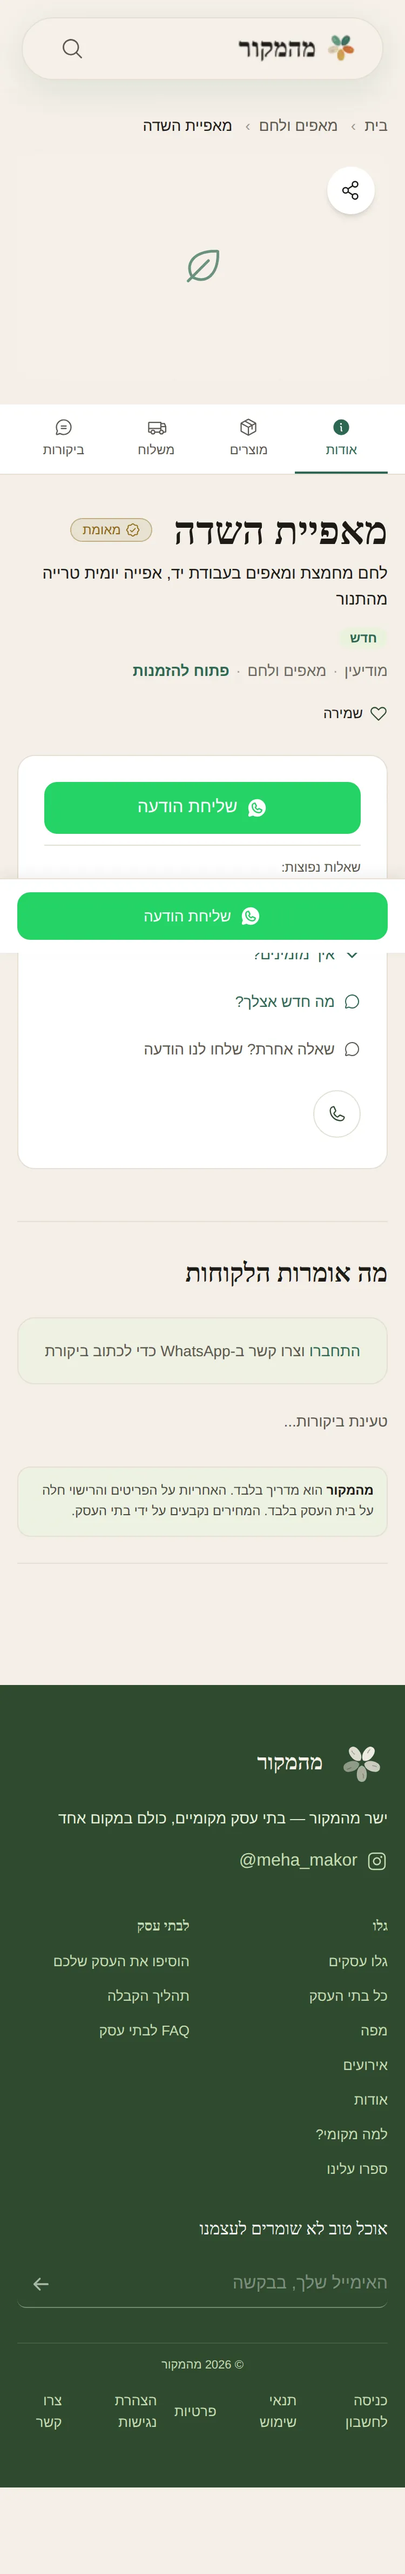
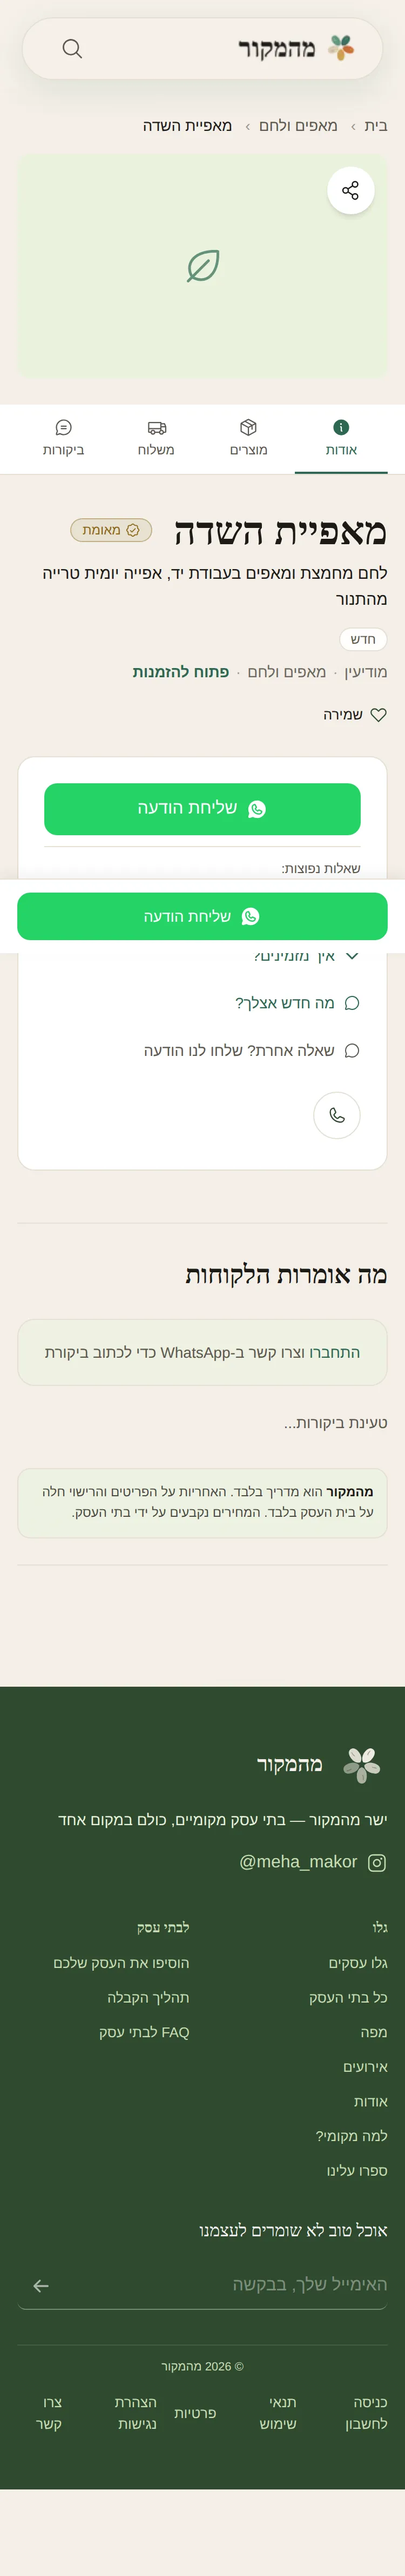
fix(producer-detail): recolor "חדש" pill green->neutral (one-green-per-page)
Review follow-up on MEH-1411: the "חדש" pill used bg-green-50 + text-primary
(the ticket's literal spec), but a new (reviews_count=0) + open producer would
then render the green pill AND the green "פתוח להזמנות" status simultaneously —
two greens, violating MEH-1334's "one green per page — open = primary" (the rule
kept on item c). Recolored to the neutral quiet-chip idiom
(bg-surface-card + border-border + text-fg-muted, ProducerCard.jsx:271) — no
green, no raw hex, no new token. The status stays the page's single green accent.

The pill only renders for reviews_count=0, and the VRT baseline producer has
reviews, so this does not change the producer-detail baseline; the parity.spec
re-touch re-fires vrt-update on this commit so the fresh baseline (from the
item-a hairline change) is generated from the final code. Self-QA new-pill
screenshots regenerated (neutral pill) in qa-artifacts/MEH-1411/.

Refs MEH-1411

Claude-Session: https://claude.ai/code/session_0114JUmY2L4qRAjBMkkLqEku

Changed region(s): [[0.8587, 0.2176, 0.9507, 0.2798], [0.6133, 0.3109, 0.644, 0.342]]

diff --git a/frontend/app/[locale]/producer/[id]/components/ProducerHeader.jsx b/frontend/app/[locale]/producer/[id]/components/ProducerHeader.jsx
@@ -102,12 +102,16 @@ export default function ProducerHeader({
         </a>
       ) : (
         // MEH-1411: "חדש" restyled from a bare 17px bold heading into a small
-        // green-50 pill (bg token + text-primary + rounded-full + compact
-        // padding) so it reads as a quiet badge in the rating's slot, not a
-        // second headline. Smaller than the old 17px line → mobile top block
-        // does not grow. data-testid preserved for the trust-strip test.
+        // NEUTRAL pill (bg-surface-card + border-border + text-fg-muted — the
+        // ProducerHeader/ProducerCard quiet-chip idiom, ProducerCard.jsx:271) so
+        // it reads as a quiet badge in the rating's slot, not a second headline.
+        // Deliberately NOT green: MEH-1334's "one green per page — open = primary"
+        // rule means the "פתוח להזמנות" status is the page's single green accent;
+        // a green pill here would double the green for a new+open producer.
+        // Smaller than the old 17px line → mobile top block does not grow.
+        // data-testid preserved for the trust-strip test.
         <span
-          className="mt-3 inline-block self-start bg-green-50 text-primary rounded-full px-2.5 py-0.5 text-xs font-bold"
+          className="mt-3 inline-block self-start rounded-full bg-surface-card border border-border text-fg-muted px-2.5 py-0.5 text-xs font-medium"
           data-testid="new-mark"
         >
           {t("producer.detail.header.new_mark")}

diff --git a/frontend/e2e/visual/parity.spec.ts b/frontend/e2e/visual/parity.spec.ts
@@ -160,10 +160,14 @@ test.describe("Visual parity — MEH-991", () => {
   // anchor. This touch also re-fires vrt-update to refresh the stale baselines.
   // MEH-1411 (2026-07-21): producer-detail header polish — the orphan "שמירה"
   // actions row lost its full-width hairline and tightened its top margin
-  // (ProducerHeader.jsx), the "חדש" fallback became a green-50 pill, and the
+  // (ProducerHeader.jsx), the "חדש" fallback became a small neutral pill, and the
   // mobile StickyContactBar CTA gained the WhatsApp icon. The producer-detail
   // (mobile especially) baseline shifts by design; this touch re-fires
   // vrt-update.yml so producer-detail-{desktop,mobile}-linux regenerate on-runner.
+  // Review follow-up: the pill was recolored green→neutral (one-green-per-page);
+  // it only renders for reviews_count=0 so it does not change this baseline (the
+  // baseline producer has reviews), but this re-touch re-fires vrt-update on the
+  // neutral-pill commit so the fresh baseline comes from the final code.
   test("producer detail", async ({ page }) => {
     await preparePage(page);
     await page.goto("/producers");

diff --git a/docs/CHANGELOG.md b/docs/CHANGELOG.md
@@ -3,7 +3,7 @@
 > Chronological session log preserved from earlier `CLAUDE.md` revisions.
 
 ## Unreleased
-- **MEH-1411 — producer-detail header polish: orphan שמירה row, "חדש" pill, sticky WhatsApp icon (Closes MEH-1411):** three quiet fixes on the `/producer/[id]` surface, re-validated against the same-day MEH-1334 (Quiet Direction v3) merge (Phase 0 file:line report in the PR). **(a) orphan "שמירה" row** (`ProducerHeader.jsx`): after MEH-1363 removed FollowButton the mobile actions row was a lone heart under a full-width hairline — a framed orphan. Dropped the hairline (`border-t border-border` + the vestigial `lg:border-t-0`) and tightened `mt-3`→`mt-2` so the heart folds quietly into the end of the meta cluster; desktop stays absolute-pinned to the title row (unchanged), 44px tap + `aria-pressed` live in `FavoriteButton` (untouched). **(b) "חדש"** (`ProducerHeader.jsx`): the reviews-count-zero fallback went from a bare 17px bold heading to a small **green-50 pill** (`bg-green-50 text-primary rounded-full px-2.5 py-0.5 text-xs`), reading as a quiet badge in the rating slot; `data-testid="new-mark"` preserved. **(d) StickyContactBar** (`StickyContactBar.jsx`): the mobile sticky CTA carried a label with no icon while the inline `PrimaryContactButton` showed one — added the per-method icon (`WhatsappLogo` weight="fill" for the whatsapp case), mirroring the inline button; `btn-whatsapp` (#25D366) untouched. **(c) "פתוח להזמנות" — SKIPPED (Sapir decision):** the status is already a non-link `<span>` (no onClick), and its green+bold styling is MEH-1334's deliberate "one green per page — open = primary; no dot, no chip" decision locked hours earlier; the prescribed dot/chip fix would reverse it, so it was left as-is. Style/markup only, zero copy changes, zero new i18n keys, RTL logical-only. Existing `ProducerHeaderTrustStrip` (`new-mark`/`status-open`) + `StickyContactBarInert` (`sticky-primary-cta`) tests still green (13/13; assert presence, preserved). `npm run build` exit 0. Self-QA Playwright @375+@1440 (client producer API route-mocked, cookie banner dismissed) → `qa-artifacts/MEH-1411/` (5 WebP, 271 KB) shows the folded heart, the green pill (reviews=0 variant), the sticky WhatsApp icon, and no desktop regression. VRT: the producer-detail baselines shift by design — this PR re-fires `vrt-update.yml` (parity.spec touch) to regenerate `producer-detail-{desktop,mobile}-linux` on-runner in the SAME PR. `Closes MEH-1411`.
+- **MEH-1411 — producer-detail header polish: orphan שמירה row, "חדש" pill, sticky WhatsApp icon (Closes MEH-1411):** three quiet fixes on the `/producer/[id]` surface, re-validated against the same-day MEH-1334 (Quiet Direction v3) merge (Phase 0 file:line report in the PR). **(a) orphan "שמירה" row** (`ProducerHeader.jsx`): after MEH-1363 removed FollowButton the mobile actions row was a lone heart under a full-width hairline — a framed orphan. Dropped the hairline (`border-t border-border` + the vestigial `lg:border-t-0`) and tightened `mt-3`→`mt-2` so the heart folds quietly into the end of the meta cluster; desktop stays absolute-pinned to the title row (unchanged), 44px tap + `aria-pressed` live in `FavoriteButton` (untouched). **(b) "חדש"** (`ProducerHeader.jsx`): the reviews-count-zero fallback went from a bare 17px bold heading to a small **neutral pill** (`bg-surface-card border border-border text-fg-muted rounded-full` — the ProducerCard quiet-chip idiom), reading as a quiet badge in the rating slot; `data-testid="new-mark"` preserved. **Deliberately NOT green** (the ticket's literal `text-primary` wording was overridden per review): MEH-1334's "one green per page — open = primary" means the "פתוח להזמנות" status is the page's single green accent, so a green pill would double the green for a new+open producer. **(d) StickyContactBar** (`StickyContactBar.jsx`): the mobile sticky CTA carried a label with no icon while the inline `PrimaryContactButton` showed one — added the per-method icon (`WhatsappLogo` weight="fill" for the whatsapp case), mirroring the inline button; `btn-whatsapp` (#25D366) untouched. **(c) "פתוח להזמנות" — SKIPPED (Sapir decision):** the status is already a non-link `<span>` (no onClick), and its green+bold styling is MEH-1334's deliberate "one green per page — open = primary; no dot, no chip" decision locked hours earlier; the prescribed dot/chip fix would reverse it, so it was left as-is. Style/markup only, zero copy changes, zero new i18n keys, RTL logical-only. Existing `ProducerHeaderTrustStrip` (`new-mark`/`status-open`) + `StickyContactBarInert` (`sticky-primary-cta`) tests still green (13/13; assert presence, preserved). `npm run build` exit 0. Self-QA Playwright @375+@1440 (client producer API route-mocked, cookie banner dismissed) → `qa-artifacts/MEH-1411/` (5 WebP, 271 KB) shows the folded heart, the green pill (reviews=0 variant), the sticky WhatsApp icon, and no desktop regression. VRT: the producer-detail baselines shift by design — this PR re-fires `vrt-update.yml` (parity.spec touch) to regenerate `producer-detail-{desktop,mobile}-linux` on-runner in the SAME PR. `Closes MEH-1411`.
 - **MEH-1400 — no-photo card placeholder unified to the MEH-1243 green-50 tile (Closes MEH-1400):** an imageless `ProducerCard` rendered `bg-background` (cream) on the cream page → Sapir's 21/07 home screenshot read the middle card as an empty hole in the grid. Aligned the four consumer no-photo surfaces to the MEH-1243 locked `#EAF3DE` (`green-50`) tile + high-contrast glyph precedent, style-only, zero logic: `ProducerCard.jsx` (`bg-background`→`bg-green-50`, Leaf `text-primary/[0.32]`→`/70`, brand name `text-primary/50`→`/80`), `public/RecipeCard.jsx` + `ExperienceCard.jsx` (`bg-background`→`bg-green-50`; leaf/name opacities already `/70`·`/80`), `ImageWithFallback.jsx` (inline fallback `#F5F0E8`→`#EAF3DE`). `data-testid`s unchanged (`leaf-icon`, `recipe-image-missing`, `experience-image-missing`); `MapProducerCard.jsx` (🔒 MEH-1243) untouched; no shared-component extraction. **VRT: no baseline change** — the home parity baseline masks `#producers-grid` + `[data-testid="producer-card"]`, recipe/experience cards aren't VRT routes, and producer-detail masks `main img` + uses a photo'd producer → no vrt-update dispatch needed (evidence, not assumed). Phase 0 confirmed exactly the 4 surfaces (extra grep hits are transitive `ImageWithFallback` consumers or the gallery frame, not standalone cream tiles). vitest 55/55 on the 4 components, `npm run build` exit 0. Self-QA Playwright @375+@1440 (real homepage, `/api/producers` injected with one imageless producer between photo cards) in `qa-artifacts/MEH-1400/` (WebP, 66 KB) — the tile reads as intentional brand texture at both viewports. `Closes MEH-1400`.
 - **MEH-1401 — welcome email wrapped in the RTL HTML template + first-name greeting + polished copy (Closes MEH-1401):** `send_welcome_email` sent **plain-text only**, so Gmail's per-line BiDi broke Hebrew punctuation (Sapir's 21/07 capture: `🌿!ברוכה הבאה`, `.אם יש שאלות`, and the full English name `שלום Smadar Levi`). Both variants now build an `html_body` mirroring the reset-password RTL template (`auth_emails.py:41-73`) exactly — `dir="rtl" lang="he"`, `#F5F0E8` outer, 560px white card, `direction:rtl` + `text-align:right` — and `send_email(..., html=html_body)` (the reset/verify templates were left untouched; **no shared-helper extraction**, inline f-string per the two existing templates). **Consumer** body carries the LOCKED copy (Linear MEH-1401, verbatim) with ONE primary CTA button `גלו בתי עסק` → `{frontend_url}` and the map as a plain inline link; **producer** body keeps its existing copy with CTA `ללוח הבקרה` → `{frontend_url}/producer/dashboard`. **Greeting = first name only** (`((name or "").split() or [""])[0]`), `html_escape`-d in the HTML body (per the `:31` reset precedent), raw in the plain-text fallback; the plain-text bodies are kept as fallback and updated to the same copy. Subject unchanged. `email.py` untouched. New `tests/test_meh1401_welcome_email_html.py` (6 cases: consumer sends `html=` with RTL markers + locked copy + CTA · first-name-only greeting · HTML-escaped name / raw in plain text · producer CTA+dashboard variant · empty-name guard · skip-without-Resend-key). pytest is Postgres-gated in the sandbox (MEH-360) so the suite runs in CI; the welcome-email logic was verified directly (import + monkeypatched `send_email`, all assertions green) and the rendered consumer HTML screenshot is in `qa-artifacts/MEH-1401/` — RTL correct, `!` at the line end, first-name greeting. `Closes MEH-1401`.
 - **MEH-1355 — settings "העסק שלי" tab: primary navigation CTA atop the status center (Closes MEH-1355):** the tab looked like a one-link intermediate page in the healthy state, but Phase 0 (`settings/page.jsx:774-845`) confirmed it's the business **status center** — it hosts the pending/rejected/suspended banners + SupportModal, hidden only when there's no banner. A plain redirect would have been a regression (a suspended owner must see her banner), so — per the 18/07 scope correction + Sapir's 21/07 call — this adds a prominent primary CTA at the **top** of the tab and keeps the status banners **below**, no redirect. New `<Link href="/producer/dashboard/edit">` styled as the canonical producer edit-CTA (mirrors `ProfileCompletenessCard.jsx:262`: full-width `bg-action-primary` + `min-h-[44px]` + `focus-ring` + `<ArrowRight className="rtl:rotate-180">` forward indicator, MEH-1348/MEH-938 convention — direction-neutral classes only, no physical RTL props). The old redundant bottom text-link (`edit_profile_link`, the MEH-963/MEH-1209 pointer, same `/edit` target) was removed so there's **one** clear navigation path; its dead i18n key was deleted from both `he.json` + `en.json` and replaced with `edit_business_cta` (he "עריכת דף העסק" / en "Edit business page", MEH-978 parity + MEH-840 guard). Banner/SupportModal logic untouched; producer-only (consumers still don't see the tab). `npm run build` exit 0; `SettingsPage.test.jsx` is a pre-existing `.skip` suite (not un-skipped here — out of scope). Self-QA Playwright @375+@1440 (mocked pending producer via `localStorage.token` + `/auth/me`) in `qa-artifacts/MEH-1355/` (WebP) — CTA visible above the pending banner at both viewports, forward arrow points inline-forward. `Closes MEH-1355`.

diff --git a/HANDOFF.md b/HANDOFF.md
@@ -5,7 +5,7 @@
 
 ## 2026-07-21 — MEH-1411 — producer-detail header polish (YELLOW)
 
-- **Shipped (a/b/d; c skipped):** `/producer/[id]` header polish. **(a)** collapsed the orphan mobile "שמירה" hairline row and folded the heart into the meta cluster (`ProducerHeader.jsx`; desktop absolute-pin unchanged). **(b)** "חדש" fallback → small green-50 pill (`ProducerHeader.jsx`; `data-testid="new-mark"` kept). **(d)** added the per-method WhatsApp icon to the mobile `StickyContactBar` CTA, mirroring `PrimaryContactButton` (`#25D366` untouched). **(c) SKIPPED** — "פתוח להזמנות" is already a non-link `<span>`; its green+bold is MEH-1334's locked "one green per page / no dot, no chip" decision (Sapir confirmed skip rather than reverse it).
+- **Shipped (a/b/d; c skipped):** `/producer/[id]` header polish. **(a)** collapsed the orphan mobile "שמירה" hairline row and folded the heart into the meta cluster (`ProducerHeader.jsx`; desktop absolute-pin unchanged). **(b)** "חדש" fallback → small **neutral** pill (`bg-surface-card border border-border text-fg-muted`, ProducerCard idiom; `data-testid="new-mark"` kept). NOT green — overrode the ticket's literal `text-primary` per review to protect MEH-1334's one-green-per-page (Sapir confirmed). **(d)** added the per-method WhatsApp icon to the mobile `StickyContactBar` CTA, mirroring `PrimaryContactButton` (`#25D366` untouched). **(c) SKIPPED** — "פתוח להזמנות" is already a non-link `<span>`; its green+bold is MEH-1334's locked "one green per page / no dot, no chip" decision (Sapir confirmed skip rather than reverse it).
 - **Phase 0 re-validation (post-MEH-1334, merged today):** (a) `ProducerHeader.jsx:172` · (b) `ProducerHeader.jsx:104-109` · (c) `ProducerHeader.jsx:130-134` (conflict, skipped) · (d) `StickyContactBar.jsx` CTA. Full report in the PR.
 - **Verify:** build exit 0 · vitest 13/13 (`ProducerHeaderTrustStrip` + `StickyContactBarInert`, presence assertions preserved) · self-QA @375/@1440 (client API route-mocked) → `qa-artifacts/MEH-1411/` (5 WebP, 271 KB). Styling/markup only, no copy/i18n changes, RTL logical-only.
 - **VRT:** producer-detail baselines shift by design → this PR touches `e2e/visual/parity.spec.ts` to re-fire `vrt-update.yml`; the bot regenerates `producer-detail-{desktop,mobile}-linux` on-runner and commits to the branch (MEH-991 flow). **Merge manually after fresh baselines land + VRT green** (auto-merge on the 2 required gates would ship stale baselines — E2E/VRT is not a required gate).
